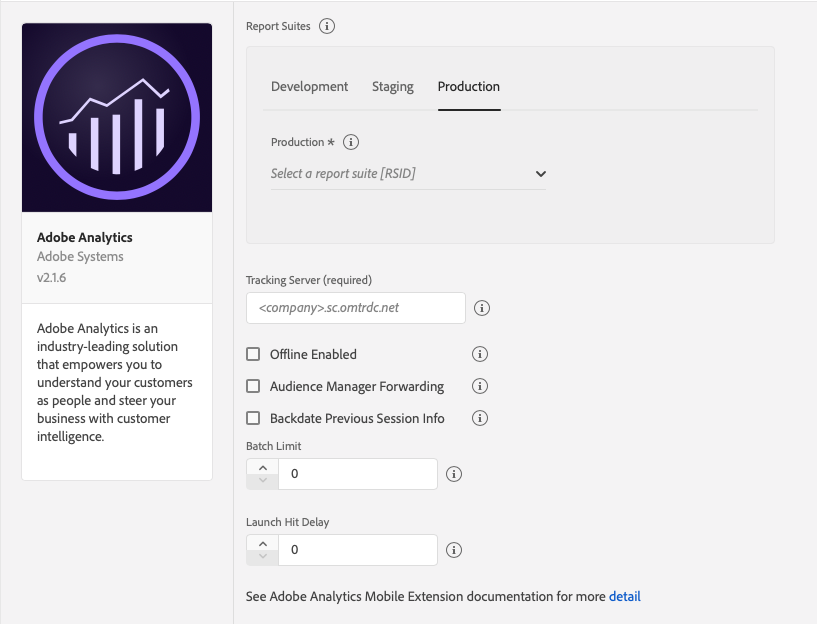
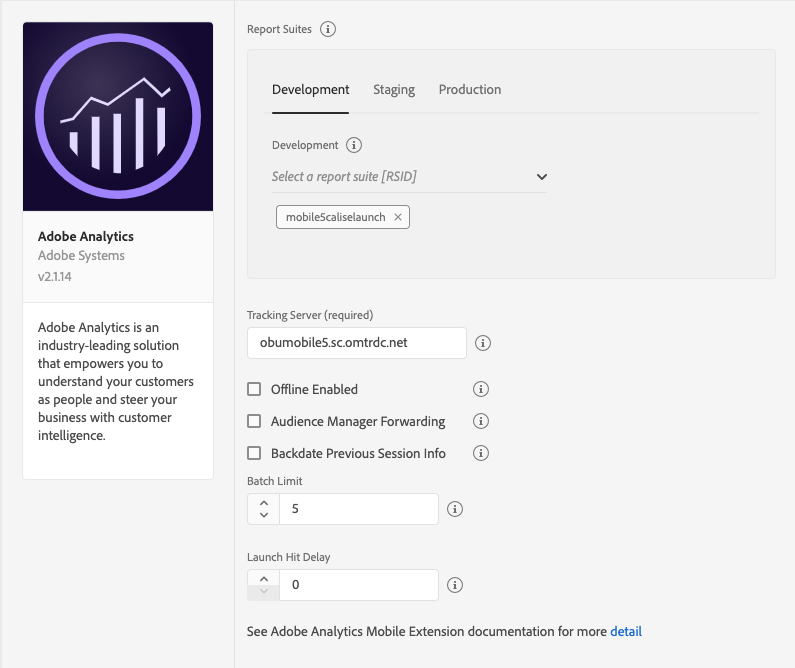
Updating Analytics extension docs to provide more information on mobile enabling report suites

diff --git a/using-mobile-extensions/adobe-analytics/README.md b/using-mobile-extensions/adobe-analytics/README.md
@@ -20,7 +20,7 @@
 Want to know how to find report suite IDs? See [Report Suites](https://docs.adobe.com/content/help/en/analytics/admin/manage-report-suites/report-suites-admin.html).
 {% endhint %}
 
-Select one or more report suite identifiers from the combo box to which the Analytics data should be sent. Only report suite identifiers that belong to a company can be selected. Type in the combo box text field to narrow the search for a report suite identifier. To remove a report suite ID, click on the X next to the ID you want to remove. Report suite IDs can also be configured for the Development and Staging environments.
+Select one or more mobile enabled report suite identifiers from the combo box to which the Analytics data should be sent. Only report suite identifiers that belong to a company and are mobile enabled can be selected. Read the [Analytics Admin Guide] (https://docs.adobe.com/content/help/en/analytics/admin/admin-tools/mobile-management.html) for information on how to mobile enable your report suite. Type in the combo box text field to narrow the search for a report suite identifier. Once a valid report suite idenifier has been selected, it will appear in a tag below the combo box (shown above). To remove a report suite ID, click on the X next to the ID you want to remove. Report suite IDs can also be configured for the Development and Staging environments.
 
 #### **Tracking server**
 
